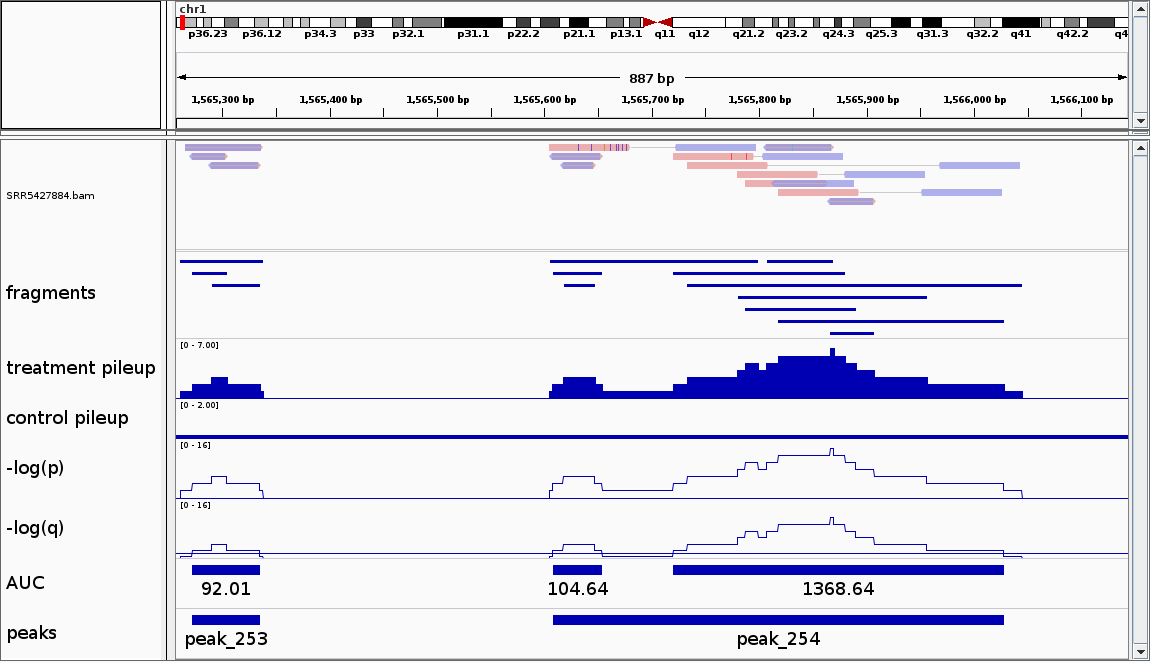
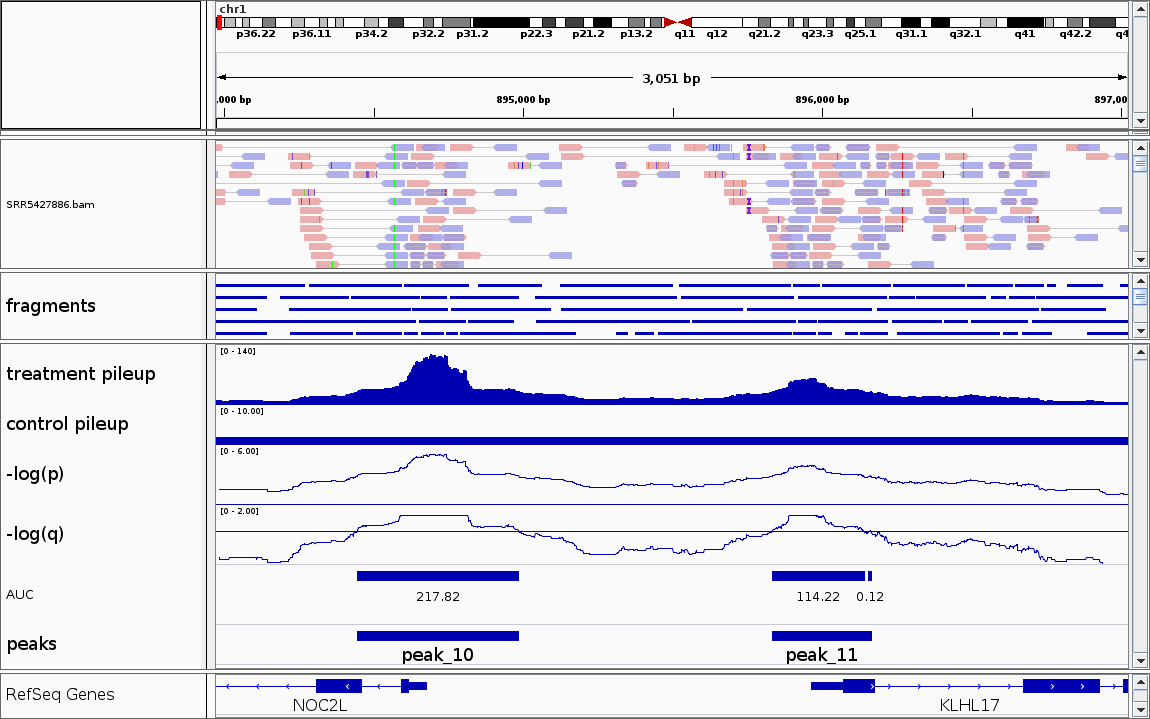
README: update

diff --git a/README.md b/README.md
@@ -23,6 +23,7 @@
 * [ATAC-seq mode](#atacseq)
 * [Peak-calling parameters](#peakcalling)
 * [Miscellaneous](#misc)
+  * [Full analysis example](#example)
   * [Warning messages](#warning)
   * [Computational requirements](#memory)
 * [Contact](#contact)
@@ -79,13 +80,15 @@ Filtering options:
 Options for ATAC-seq:
   -j               Use ATAC-seq mode (def. false)
   -d  <int>        Expand cut sites to <int> bp (def. 100)
-Options for peak calling:
+Options for peak-calling:
   -q  <float>      Maximum q-value (FDR-adjusted p-value; def. 0.05)
   -p  <float>      Maximum p-value (overrides -q if set)
   -a  <float>      Minimum AUC for a peak (def. 20.0)
-  -l  <int>        Minimum length of a peak (overrides -a if set)
+  -l  <int>        Minimum length of a peak (def. 0)
   -g  <int>        Maximum distance between signif. sites (def. 100)
 Other options:
+  -X               Skip peak-calling
+  -P               Call peaks directly from a log file (-f)
   -z               Option to gzip-compress output(s)
   -v               Option to print status updates/counts to stderr
 ```
@@ -143,7 +146,7 @@ Within each group, Genrich analyzes reads/fragments in order based on the total 
 
 There is no consideration of read order (R1 vs. R2) by Genrich.  That is, if the 5' coordinates of R1 and R2 of one paired alignment match the coordinates of R2 and R1 of another paired alignment, respectively, it is classified as a duplicate.  The same applies to discordant and singleton duplicates.
 
-For reads/fragments with [multiple alignments](#multimap), all secondary alignments within the [`-s` threshold](#sparam) are considered.  If *any* of a read's/fragment's alignments is classified as a duplicate, then the whole read/fragment is classified as a duplicate, and *all* of its alignments are discarded.  Note that no maximum of 10 alignments per read/fragment is imposed at this stage, and all alignments to skipped chromosomes (`-e`) or genomic regions (`-E`) are still analyzed.
+For reads/fragments with [multiple alignments](#multimap), all secondary alignments within the [`-s` threshold](#sparam) are considered.  If *any* of a read's/fragment's alignments is evaluated as a duplicate, then the whole read/fragment is classified as a duplicate, and *all* of its alignments are discarded.  Note that no maximum of 10 alignments per read/fragment is imposed at this stage, and all alignments to skipped chromosomes (`-e`) or genomic regions (`-E`) are still analyzed.  For discordant alignments, all combinations of valid R1 and R2 alignments are evaluated.
 
 
 ### Genome length calculation <a name="genomelen"></a>
@@ -158,9 +161,9 @@ The background pileup value is calculated by dividing the total sequence informa
 
 ### *p*-value calculation <a name="pvalue"></a>
 
-The *p*-values are calculated for each base of the genome assuming an [exponential distribution](https://en.wikipedia.org/wiki/Exponential_distribution#Alternative_parameterization) with the control/background pileup value as the parameter *&beta;*.  The exponential distribution has two attributes that make it suitable for this calculation:
-* Because it is a continuous probability distribution, fractional treatment pileups can be considered.  This is important for reads/fragments with [multiple alignments](#multimap).
-* The *p*-value for a treatment value *x* and parameter *&beta;* is <i>e<sup> -x / &beta;</sup></i>.  Therefore, multiplying *x* and *&beta;* by the same factor results in the same *p*-value, which implies that the *p*-values are robust to sequencing depth artifacts.
+The *p*-values are calculated for each base of the genome assuming a null model with a [log-normal distribution](https://en.wikipedia.org/wiki/Log-normal_distribution).  The control/background pileup value is used as the parameter *&mu;*, and the *&sigma;* parameter is calculated as 1.2 &times; *&mu;* if *&mu;* &le; 7, and 10 &times; log<sub>10</sub>(*&mu;*) if *&mu;* &gt; 7.  These values, as well as the choice of the log-normal distribution, were determined from a comprehensive review of control samples from various ChIP-seq experiments (human, mouse, and worm) downloaded from [SRA](https://www.ncbi.nlm.nih.gov/sra/).
+* Because the log-normal is a continuous probability distribution, fractional treatment pileup values can be considered.  Such values are generated by Genrich due to reads/fragments with [multiple alignments](#multimap).
+* Earlier versions of Genrich (prior to v0.5) used the [exponential distribution](https://en.wikipedia.org/wiki/Exponential_distribution#Alternative_parameterization) for the null model.  Although this distribution has some convenient properties (continuous, one-parameter, -log<sub>10</sub>(*p*) &prop; *x* / &beta;), the study described above showed that the exponential distribution was a good fit to the control pileup distribution only *occasionally*.  However, this was still far better than the [Poisson distribution](https://en.wikipedia.org/wiki/Poisson_distribution), which is frequently used as a null model in genomics software but was a good fit to the control pileup distribution **never**.
 
 
 ### *q*-value calculation <a name="qvalue"></a>
@@ -180,45 +183,63 @@ The *q*-value for each base of the genome is calculated from the *p*-value using
 * Multiple SAM/BAM files for a single replicate should be combined in advance via `samtools merge`.
 * The SAM/BAM files must be sorted by queryname (via `samtools sort -n`).
 * Genrich will read from `stdin` with `-t -`.
+* This file need not be specified when peak-calling directly from a log file previously produced by Genrich (`-P`).
 <br><br>
 
 ```
   -o  <file>       Output peak file (in ENCODE narrowPeak format)
 ```
-* As indicated, the output file is in [ENCODE narrowPeak format](https://genome.ucsc.edu/FAQ/FAQformat.html#format12).  Here are additional details of the fields:
+* As indicated, the output file is in [ENCODE narrowPeak format](https://genome.ucsc.edu/FAQ/FAQformat.html#format12).  Here are details of the fields:
 <table>
   <tr>
-    <td align="center">4. name</td>
+    <td>1. chrom</td>
+    <td>Name of the chromosome</td>
+  </tr>
+  <tr>
+    <td>2. chromStart</td>
+    <td>Starting position of the peak (0-based)</td>
+  </tr>
+  <tr>
+    <td>3. chromEnd</td>
+    <td>Ending position of the peak (not inclusive)</td>
+  </tr>
+  <tr>
+    <td>4. name</td>
     <td><code>peak_N</code>, where <code>N</code> is the 0-based count</td>
   </tr>
   <tr>
-    <td align="center">5. score</td>
-    <td>10*qValue (or 10*pValue if <code>-p</code> is set), rounded to the nearest int (max. 1000)</td>
+    <td>5. score</td>
+    <td>Average AUC (total AUC / bp) &times; 1000, rounded to the nearest int (max. 1000)</td>
   </tr>
   <tr>
-    <td nowrap align="center">7. signalValue</td>
-    <td>Total area under the curve, in default peak-calling mode.  In minimum-length peak-calling mode (<code>-l</code>), the summit fold-enrichment (treatment / control) with one replicate, or the qValue (pValue with <code>-p</code>) with multiple replicates.</td>
+    <td>6. strand</td>
+    <td><code>.</code> (no orientation)</td>
   </tr>
   <tr>
-    <td align="center">8. pValue</td>
+    <td nowrap>7. signalValue</td>
+    <td>Total area under the curve (AUC)</td>
+  </tr>
+  <tr>
+    <td>8. pValue</td>
     <td>Summit -log<sub>10</sub>(<i>p</i>-value)</td>
   </tr>
   <tr>
-    <td align="center">9. qValue</td>
-    <td>Summit -log<sub>10</sub>(<i>q</i>-value), or -1 with <code>-p</code></td>
+    <td>9. qValue</td>
+    <td>Summit -log<sub>10</sub>(<i>q</i>-value), or <code>-1</code> if not available (e.g. with <code>-p</code>)</td>
   </tr>
   <tr>
-    <td align="center">10. peak</td>
-    <td>Summit position: the midpoint of the peak interval reaching the highest significance (the longest interval in case of ties)</td>
+    <td>10. peak</td>
+    <td>Summit position (0-based offset from chromStart): the midpoint of the peak interval with the highest significance (the longest interval in case of ties)</td>
   </tr>
 </table>
 
-* Here is the part of the output file corresponding to the peaks called in Figure 1:
+* Here is the portion of the output file corresponding to the peaks called in Figure 1:
 ```
-chr1    1565272    1565335    peak_253     43    .      92.013634     6.853281     4.313010     25
-chr1    1565608    1566028    peak_254    129    .    1473.275024    15.990990    12.873972    259
+chr1    894446    894988    peak_10    402    .    217.824936    4.344683    1.946031    317
+chr1    895834    896167    peak_11    343    .    114.331093    4.344683    1.946031    90
 ```
 * Genrich will write to `stdout` with `-o -`.
+* This file need not be specified when peak-calling is skipped (`-X`).
 <br>
 
 ### Optional files <a name="optional"></a>
@@ -234,18 +255,20 @@ chr1    1565608    1566028    peak_254    129    .    1473.275024    15.990990  
 ```
   -f  <file>       Output bedgraph-ish file for p/q values
 ```
-* With a single replicate, this log file lists treatment/control pileup values, *p*- and *q*-values, and significance (`*`) for each interval. Here is part of the log file corresponding to the beginning of `peak_254` (Fig. 1):
+* With a single replicate, this log file lists treatment/control pileup values, *p*- and *q*-values, and significance (`*`) for each interval. Here is the portion of the log file corresponding to the beginning of `peak_10` (Fig. 1):
 ```
-chr1    1565338    1565605    0.000000    0.190111    0.000000    0.000000
-chr1    1565605    1565608    1.000000    0.190111    2.284427    0.621277
-chr1    1565608    1565618    2.000000    0.190111    4.568854    2.318294    *
-chr1    1565618    1565647    3.000000    0.190111    6.853281    4.313010    *
-chr1    1565647    1565654    2.000000    0.190111    4.568854    2.318294    *
-chr1    1565654    1565720    1.000000    0.190111    2.284427    0.621277
-chr1    1565720    1565733    2.000000    0.190111    4.568854    2.318294    *
+chr1    894435    894436    33.000000    2.477916    3.183460    1.208321
+chr1    894436    894442    34.000000    2.477916    3.231466    1.241843
+chr1    894442    894446    35.000000    2.477916    3.278469    1.274561
+chr1    894446    894447    36.000000    2.477916    3.324516    1.306471    *
+chr1    894447    894450    39.000000    2.477916    3.457329    1.398035    *
+chr1    894450    894451    40.000000    2.477916    3.499948    1.427253    *
+chr1    894451    894460    41.000000    2.477916    3.541798    1.455938    *
 ```
 * With multiple replicates, this log file lists *p*-values of each replicate, combined *p*-value, *q*-value, and significance for each interval.
 * Note that this file (as well as the `-k` file, below) is called "bedgraph-ish" because it contains multiple `dataValue` fields, which isn't strictly allowed in the [bedGraph format](https://genome.ucsc.edu/goldenpath/help/bedgraph.html).  However, a simple application of `awk` can produce the desired bedgraph files for visualization purposes (see this [awk reference](http://kirste.userpage.fu-berlin.de/chemnet/use/info/gawk/gawk_7.html#SEC57) for a guide to printing specific fields of input records).
+* When peak-calling is skipped (`-X`), the significance column is not produced.
+* This file functions as the *input* when peak-calling directly from a log file (`-P`).
 <br><br>
 
 ```
@@ -257,7 +280,7 @@ chr1    1565720    1565733    2.000000    0.190111    4.568854    2.318294    *
 ```
   -b  <file>       Output BED file for reads/fragments/intervals
 ```
-* This is an unsorted [BED file](https://genome.ucsc.edu/FAQ/FAQformat.html#format1) of the reads/fragments/intervals analyzed. The 4th column gives the read name, number of alignments, 'T'reatment or 'C'ontrol, and sample number (0-based), e.g. `SRR5427885.57_2_T_0`.
+* This is an unsorted [BED file](https://genome.ucsc.edu/FAQ/FAQformat.html#format1) of the reads/fragments/intervals analyzed. The 4th column gives the read name, number of alignments, 'T'reatment or 'C'ontrol, and sample number (0-based), e.g. `SRR5427886.59_2_T_0`.
 <br><br>
 
 ```
@@ -265,11 +288,11 @@ chr1    1565720    1565733    2.000000    0.190111    4.568854    2.318294    *
 ```
 * This log file lists the header of each read/fragment classified as a PCR duplicate, followed by the alignment, the header of the read/fragment it matched, and the alignment type. For example:
 ```
-SRR5427888.426     chr11:40276009-40276085             SRR5427888.353     paired
-SRR5427888.9678    chr4:80273698,+;chr2:133028456,-    SRR5427888.9507    discordant
-SRR5427888.3109    chr8:103906034,-                    SRR5427888.3013    single
+SRR5427886.5958     chr4:185201876-185201975            SRR5427886.4688    paired
+SRR5427886.1826     chr12:34372610,+;chr1:91852878,-    SRR5427886.2040    discordant
+SRR5427886.10866    chr14:53438632,+                    SRR5427886.4746    single
 ```
-* The duplicates from multiple input files are separated by a comment line listing the next filename, such as `# treatment file #0: SRR5427888.bam`.
+* The duplicates from multiple input files are separated by a comment line listing the next filename, such as `# treatment file #0: SRR5427886.bam`.
 * This file can be used to filter the original SAM/BAM file, using a simple script such as [`getReads.py`](https://github.com/jsh58/rutgers/blob/master/getReads.py), for example.
 <br><br>
 
@@ -373,24 +396,39 @@ The remainder of the peak-calling process (calculating pileups and significance 
 ```
   -a  <float>      Minimum AUC for a peak (def. 20.0)
 ```
-* The default peak-calling method requires that, for a peak to be called, the total significance of the region must exceed a minimum value. The total significance is calculated as the sum of the -log(*q*) values above the `-q` threshold over the length of the region (i.e. the area under the -log(*q*) "curve").
+* The peak-calling method requires that, for a peak to be called, the total significance of the region must exceed a minimum value. The total significance is calculated as the sum of the -log(*q*) values above the `-q` threshold over the length of the region (i.e. the area under the -log(*q*) "curve").
 * If a `-p` threshold is specified, the area under the -log(*p*) curve is calculated.
 <br><br>
 
 ```
-  -l  <int>        Minimum length of a peak (overrides -a if set)
+  -l  <int>        Minimum length of a peak (def. 0)
 ```
-* This option overrides the default peak-calling method (`-a`) and instead requires that peaks have at least the specified minimum length.  Any potential peaks whose lengths are below that threshold are eliminated, regardless of the significance.
+* With this option, all called peaks are required to have at least the specified minimum length.  Any potential peaks whose lengths are below that threshold are eliminated, regardless of the significance.  The default of 0 means that no peaks will be eliminated on this basis.
 <br><br>
 
 ```
   -g  <int>        Maximum distance between signif. sites (def. 100)
 ```
-* This parameter sets the maximum distance between sites that achieve significance in order for them to be linked together into the same potential peak.  It applies in either peak-calling mode (`-a` and `-l`).
+* This parameter sets the maximum distance between sites that achieve significance in order for them to be linked together into the same potential peak.
 <br><br>
 
 
 ## Miscellaneous <a name="misc"></a>
+
+```
+  -X               Skip peak-calling
+```
+* This is a convenience option for those who are unsure of the peak-calling parameters but do not want to run the full analysis multiple times.  Genrich will interpret the alignment files (including identifying PCR duplicates) and produce intermediate log files, but will not perform the peak-calling step.  The bedgraph-ish log file listing statistics (`-f`) can subsequently be used to call peaks directly (see `-P`, below).
+* With this option, the requirement to specify an output peak file (`-o`) is suspended, and no such file will be produced.
+<br><br>
+
+```
+  -P               Call peaks directly from a log file (-f)
+```
+* This is a convenience option to call peaks from a bedgraph-ish log file (`-f`) produced by a previous Genrich run.  One can modify the [peak-calling parameters](#peakcalling) and explore the results without needing to run the full analysis (and requiring much less time and memory).
+* Any chromosomes (`-e`) and genomic regions (`-E`) to be ignored, which were previously specified in the Genrich run that produced the log file, will be honored.  Additional chromosomes and regions can be specified via the same command-line options, although the results may be slightly different than running the full analysis, due to differences in the calculations of [genome length](#genomelen) and [sequence information](#pileup).  Note that there is no verification that an excluded region (`-E`) does not extend past the end of a chromosome, unlike when the full analysis is run.
+* With this option, the requirement to specify input SAM/BAM file(s) (`-t`) is suspended, but the input log file (`-f`) *must* be specified.
+<br><br>
 
 ```
   -z               Option to gzip-compress output(s)
@@ -404,38 +442,47 @@ Other options:
   -h/--help        Print the usage message and exit
   -V/--version     Print the version and exit
 ```
-* Here is the verbose output for a [sample](https://www.ncbi.nlm.nih.gov/sra/SRX2717913[accn]), analyzed by Genrich with the options to remove PCR duplicates (`-r`) and alignments to chrM and chrY (`-e chrM,chrY`), and to keep singletons, extended to the average fragment length (`-x`):
+
+### Full analysis example <a name="example"></a>
+
+A [sequencing run](https://www.ncbi.nlm.nih.gov/sra/SRX2717911[accn]) was downloaded from SRA, and its reads were adapter-trimmed by [NGmerge](https://github.com/jsh58/NGmerge) and aligned to the human genome (hg19) by [Bowtie2](http://bowtie-bio.sourceforge.net/bowtie2/manual.shtml) with `-k 20`.  The resulting alignment file `SRR5427886.bam` was analyzed by Genrich with the options to remove PCR duplicates (`-r`) and to keep singletons, extended to the average fragment length (`-x`).  All alignments to chrM and chrY were discarded (`-e chrM,chrY`), as well as alignments to two sets of excluded intervals: regions of 'N' homopolymers in the hg19 genome (produced by [`findNs.py`](https://github.com/jsh58/Genrich/blob/master/findNs.py)) and [high mappability regions](http://hgdownload.cse.ucsc.edu/goldenPath/hg19/encodeDCC/wgEncodeMapability/wgEncodeDukeMapabilityRegionsExcludable.bed.gz) (`-E hg19_Ns.bed,wgEncodeDukeMapabilityRegionsExcludable.bed.gz`).
 ```
-$ ./Genrich  -t SRR5427888.bam  -o SRR5427888.narrowPeak  -f SRR5427888.log  -e chrM,chrY  -r  -x  -v
-Processing treatment file #0: SRR5427888.bam
-  BAM records analyzed:   17958292
-    Unmapped:               225635
-    To skipped refs:        557290
+$ ./Genrich  -t SRR5427886.bam  -o SRR5427886.narrowPeak  -f SRR5427886.log  -r  -x  -v  \
+  -e chrM,chrY  -E hg19_Ns.bed,wgEncodeDukeMapabilityRegionsExcludable.bed.gz 
+Processing treatment file #0: SRR5427886.bam
+  BAM records analyzed:  146277509
+    Unmapped:              2877550
+    To skipped refs:       2560688
       (chrM,chrY)
-    Paired alignments:    17016972
-      secondary alns:      5761608
-    Unpaired alignments:    158395
-      secondary alns:        82053
+    Paired alignments:   137462998
+      secondary alns:     67724920
+    Unpaired alignments:   3376273
+      secondary alns:      2232056
   PCR duplicates --
-    Paired aln sets:       5837780
-      duplicates:          1453305 (24.9%)
-    Discordant aln sets:     10026
-      duplicates:             1638 (16.3%)
-    Singleton aln sets:      59321
-      duplicates:            22892 (38.6%)
-  Fragments analyzed:      4328363
-    Full fragments:        4276454
-      (avg. length: 148.4bp)
-    Singletons:              51909
-      (extended to length 148bp)
+    Paired aln sets:      35574220
+      duplicates:          4660723 (13.1%)
+    Discordant aln sets:     64679
+      duplicates:             7736 (12.0%)
+    Singleton aln sets:    1036778
+      duplicates:           475201 (45.8%)
+  Fragments analyzed:     31286234
+    Full fragments:       30616993
+      (avg. length: 226.4bp)
+    Singletons:             669241
+      (extended to length 226bp)
 - control file #0 not provided -
+  Background pileup value: 2.477916
 Peak-calling parameters:
-  Genome length: 3036303846bp
+  Genome length: 2826865605bp
   Significance threshold: -log(q) > 1.301
   Min. AUC: 20.000
   Max. gap between sites: 100bp
-Peaks identified: 536812
+Peaks identified: 35114 (27918264bp)
 ```
+The total time to execute the above command (analyzing a single BAM of 146.3 million alignments and calling peaks) was 10.5min.  It required 17.1GB of memory.
+
+Once a log file (`SRR5427886.log`) is produced, calling peaks with an alternative set of parameters is accomplished most easily with `-P`.  This required just 36sec and less than 0.2MB of memory.
+
 
 ### Warning messages <a name="warning"></a>
 
@@ -449,11 +496,14 @@ In verbose mode, Genrich may print one or more warnings to `stderr`:
 * `Read N, alignment at <loc> skipped due to overflow`: The maximum difference in pileup values from one genomic position to the next is +32767, and additional reads will be skipped due to this limitation.  Removing PCR duplicates (`-r`) may help reduce this issue.
 * `Read N, alignment at <loc> skipped due to underflow`: The minimum difference in pileup values from one genomic position to the next is -32768, and additional reads will be skipped due to this limitation.  Removing PCR duplicates (`-r`) may help reduce this issue.
 * `Read N has more than 128 alignments`: If a read has more than 128 alignments in the SAM/BAM, only the first 128 are considered.  As described [above](#sparam), the best 10 alignments are ultimately analyzed by Genrich.
+* `All q-values are 1`: When no *p*-values are smaller than the reciprocal of the [calculated genome length](#genomelen), all [*q*-values](#qvalue) are calculated to be 1.  If peaks are expected to be called, one should consider using a *p*-value threshold instead (`-p`).
+* `Skipping chromosome N -- Reads aligning to it were used...`: This occurs when peak-calling directly from a log file (`-P`), and the log file indicates that reads/fragments aligned to a chromosome to be skipped (`-e`).  When Genrich created the log file, the chromosome was not skipped.  Therefore, the reads/fragments that aligned to it were used in the [background pileup calculation](#pileup), and its length was included in the [genome length calculation](#genomelen).  Those calculations affected the statistics present in the log file, so the called peaks may be slightly different than those called when running the full analysis.
+* `Skipping given BED regions -- Reads aligning to them were used...`: This occurs when peak-calling directly from a log file (`-P`), and the log file indicates that reads/fragments aligned to one or more genomic regions to be skipped (`-E`).  When Genrich created the log file, the regions were not skipped.  Therefore, the reads/fragments that aligned to them were used in the [background pileup calculation](#pileup), and their lengths were included in the [genome length calculation](#genomelen).  Those calculations affected the statistics present in the log file, so the called peaks may be slightly different than those called when running the full analysis.
 * `"orphan" alns`: An "orphan" alignment is one that the SAM/BAM indicates is properly paired, but its pair could not be found.  This could be due to a poorly formatted SAM/BAM, or possibly (but unlikely) a bug in alignment parsing by Genrich.  This is not a warning message *per se*, but if it appears in the verbose accounting of alignments analyzed, it should be treated as such.
 
 ### Computational requirements <a name="memory"></a>
 
-Genrich runs very quickly but uses a considerable amount of memory.  For starters, it requires 3 bytes for every base-pair of the reference genome, i.e. ~9GB for a human sample.  The number of input files has little effect on memory, but certain analysis options (especially the option to remove PCR duplicates) can greatly increase the memory usage, especially with large SAM/BAM input files.  For example, when PCR duplicate removal was performed, with a duplicate log file (`-R`), Genrich used a maximum of 25GB memory to complete the analysis of a human treatment/control pair of BAM files that contained a combined 302.1 million alignments.  The total run-time, including peak-calling, was 19.6min.
+Genrich runs very quickly but uses a considerable amount of memory.  For starters, it requires 3 bytes for every base-pair of the reference genome, i.e. ~9GB for a human sample.  The number of input files has little effect on memory, but certain analysis options (especially the option to remove PCR duplicates) can greatly increase the memory usage, particularly with large SAM/BAM input files.  See [above](#example) for an example.
 
 Genrich is not multi-threaded.
 <br><br>
